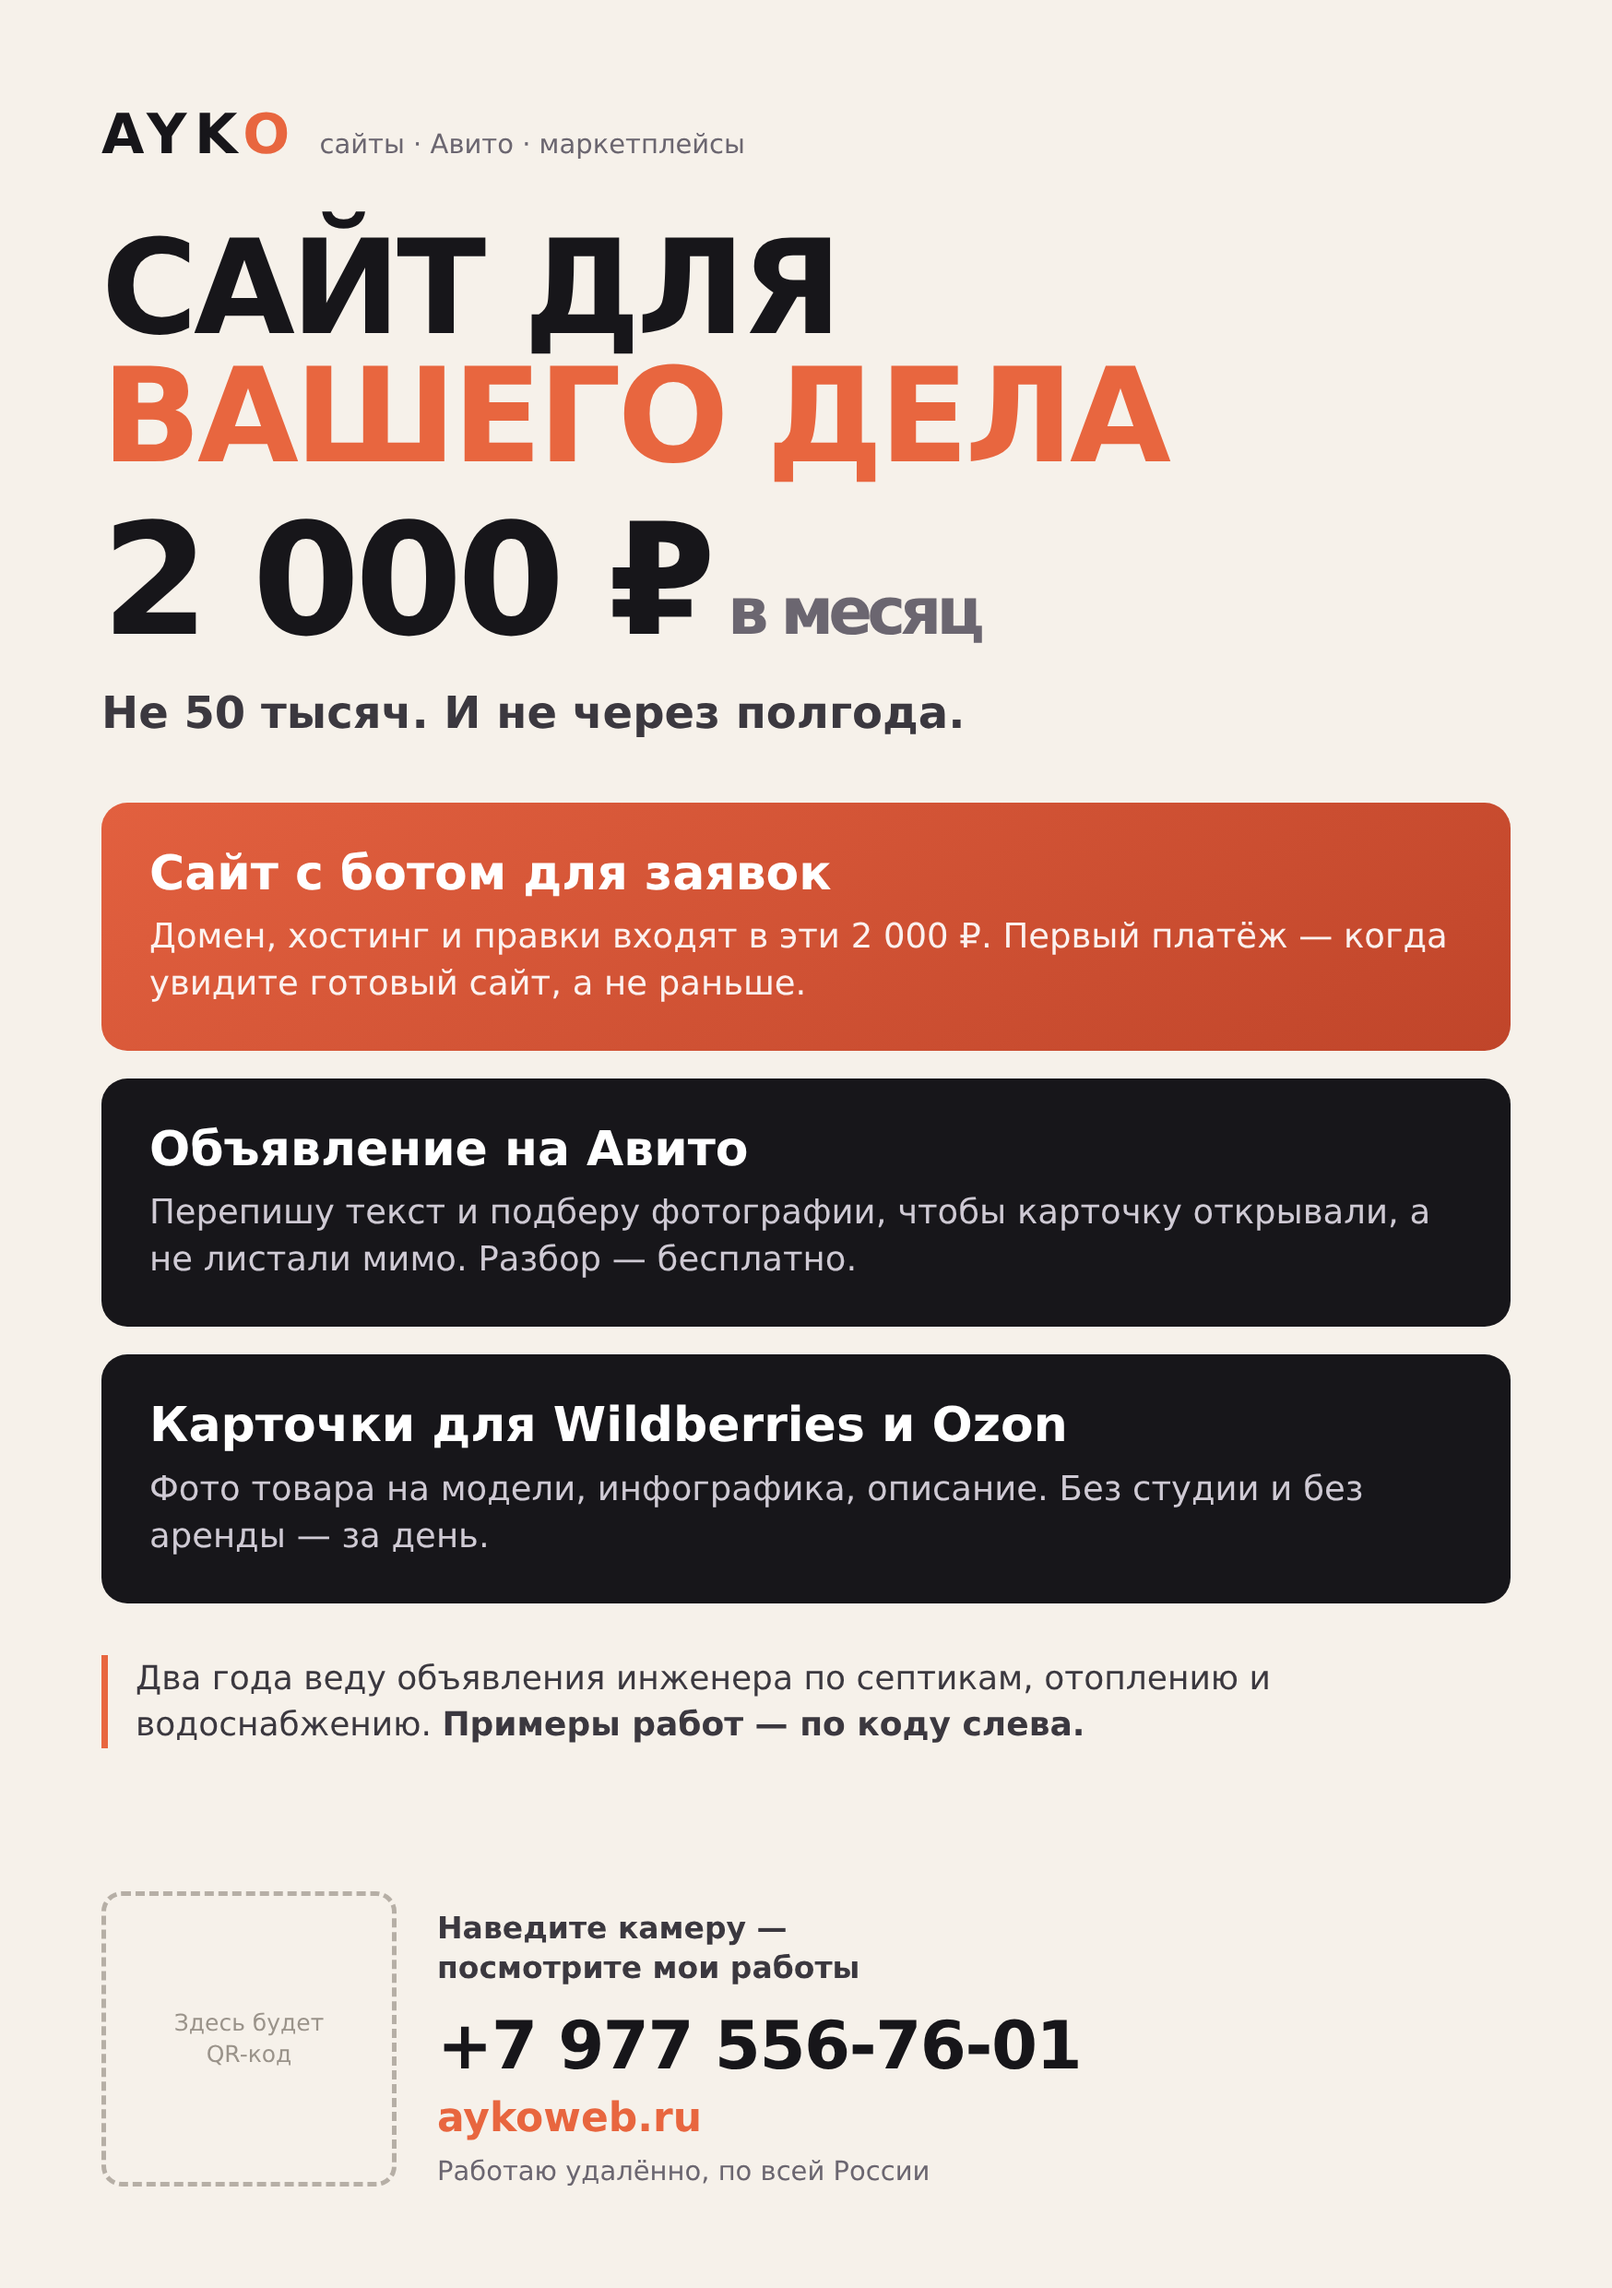
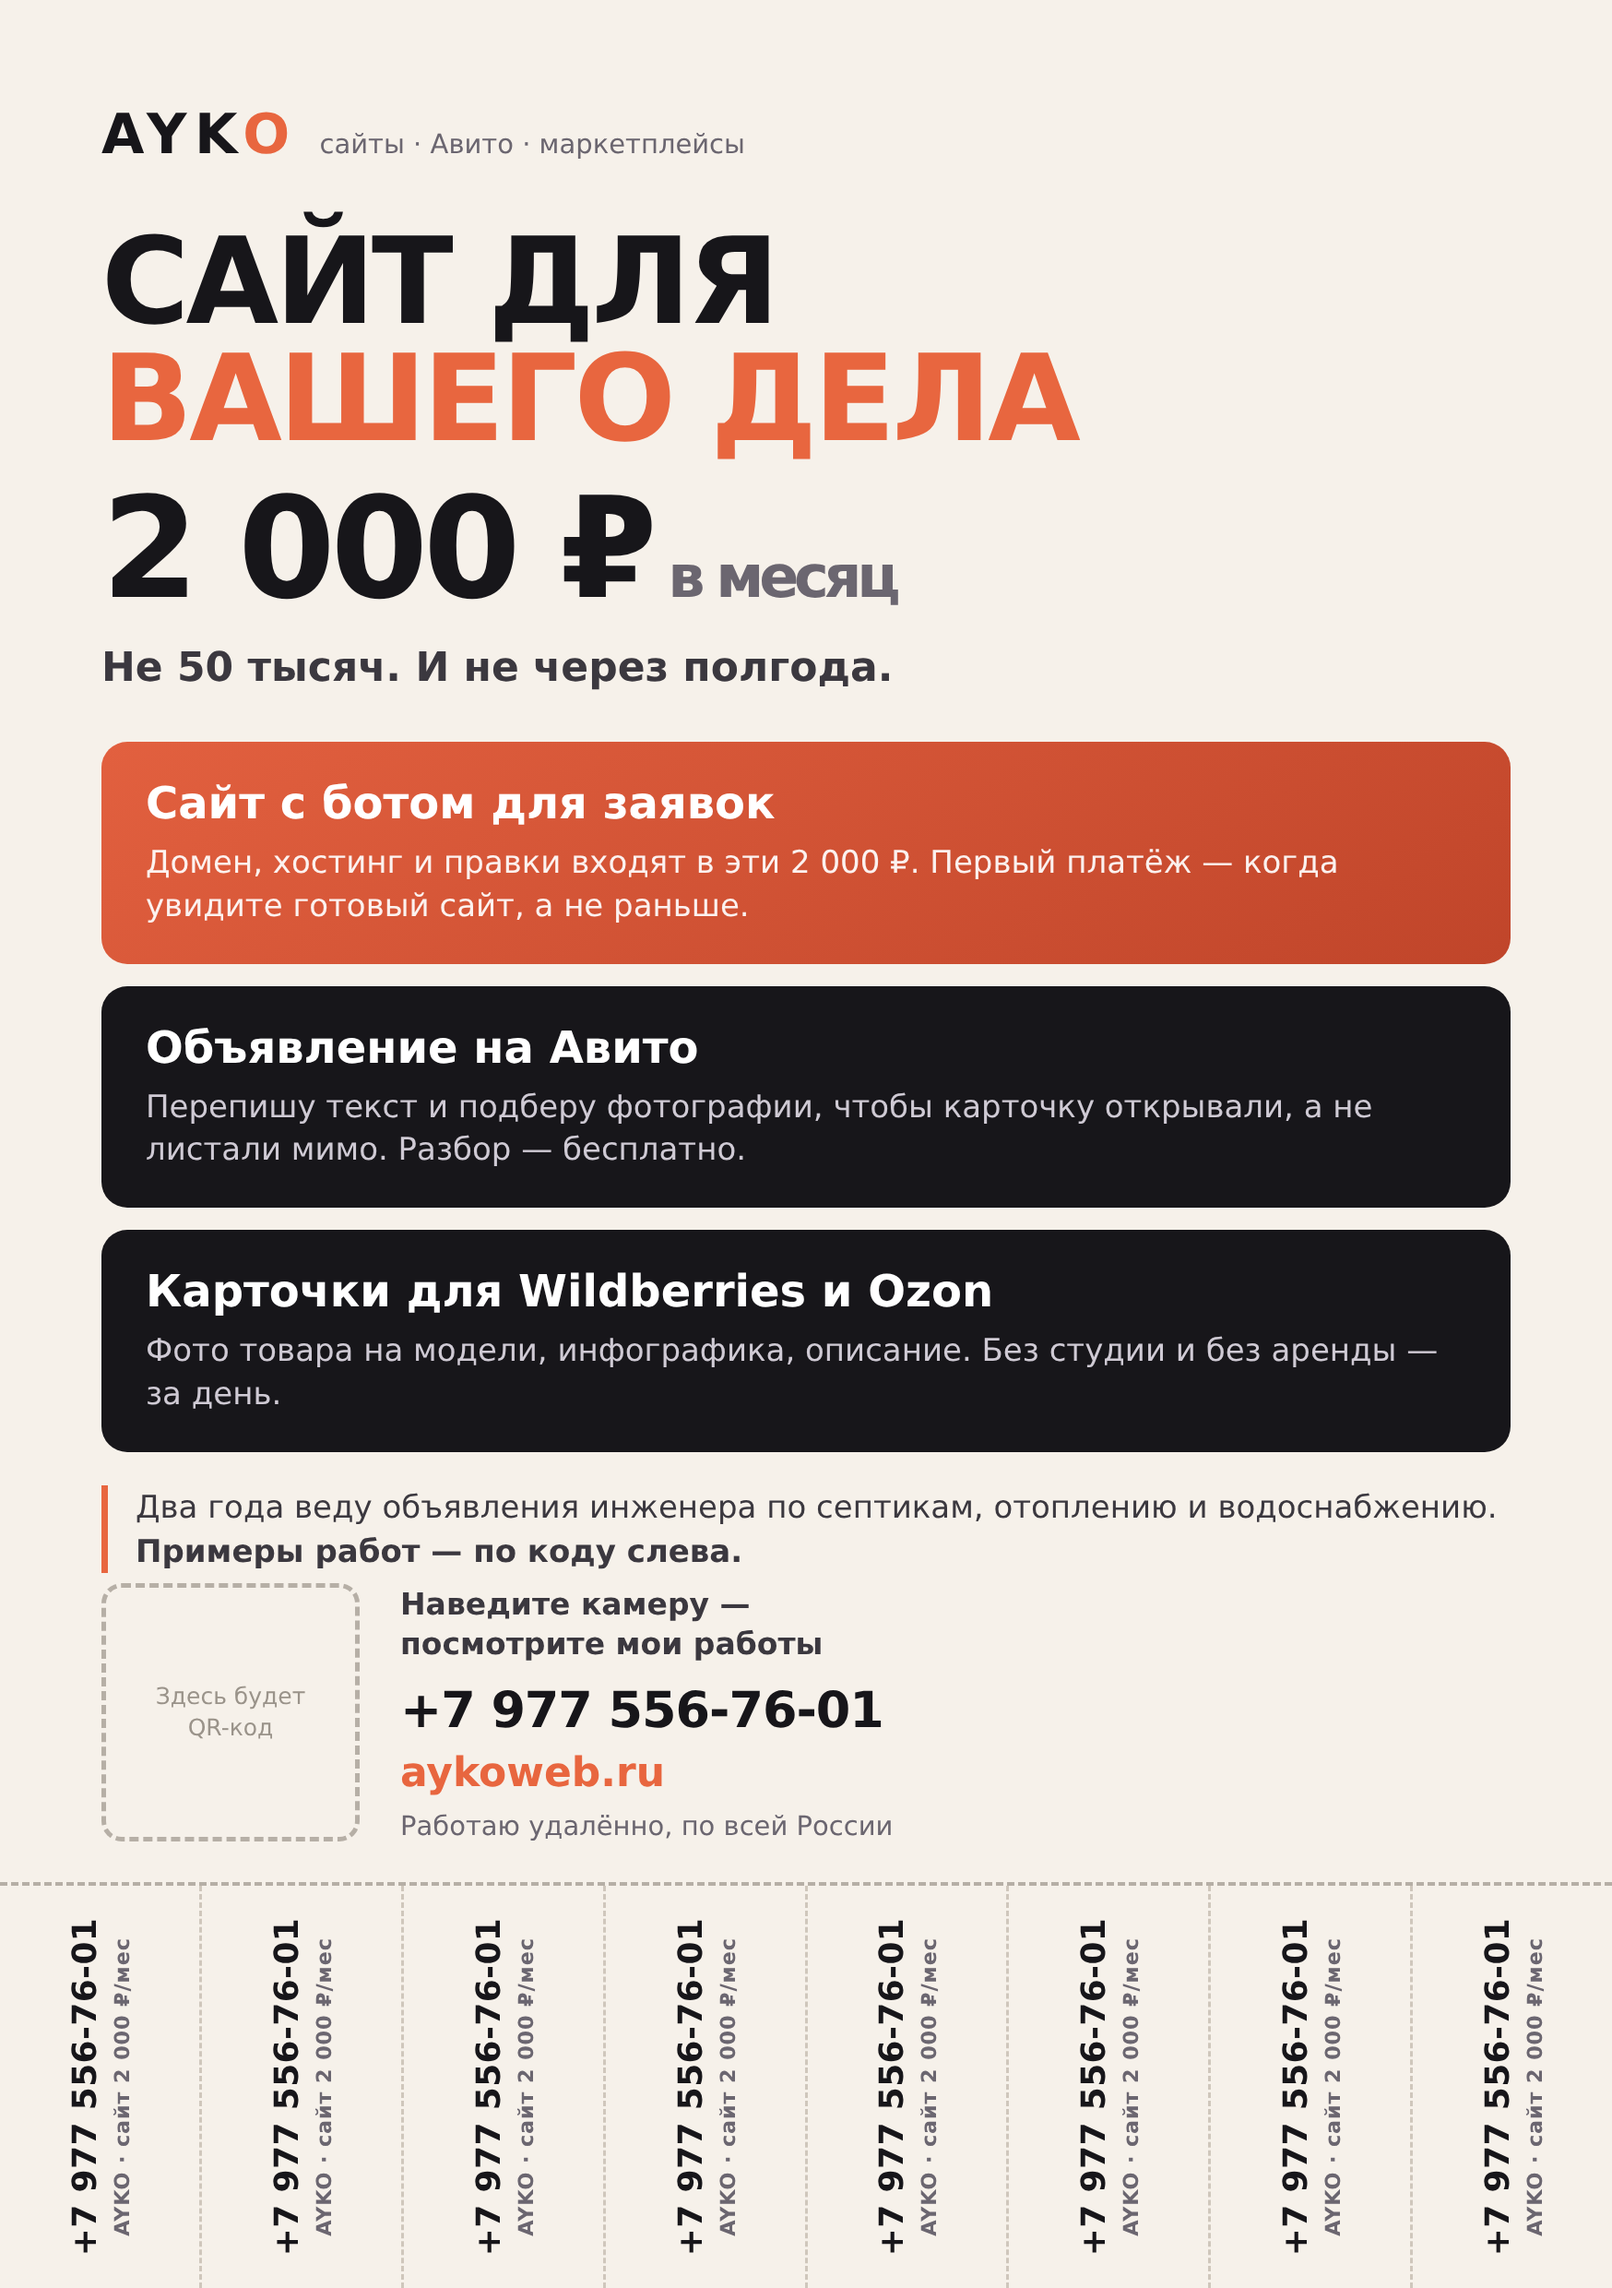
Листовка: восемь отрывных полосок с телефоном
В подъезде полоски работают лучше кода: телефон из кармана доставать
не надо, достаточно оторвать бумажку. Лента идёт до краёв листа, по
полоске примерно 1,8 см.

Три вещи, на которых проверка споткнулась и которые пришлось чинить
в ней, а не в макете: лента намеренно выходит за поля, у повёрнутого
на 90 градусов элемента ширина и высота в прямоугольнике меняются
местами, и флекс сжимал ленту с 440 до 269 пикселей.

Claude-Session: https://claude.ai/code/session_01Mz94299eM4Py8ny9J3Vrt3

diff --git a/dnevnik/avito/listovka.js b/dnevnik/avito/listovka.js
@@ -8,6 +8,8 @@ const { chromium } = require('/opt/node22/lib/node_modules/playwright');
 const path = require('path');
 
 const W = 1748, H = 2480, PAD = 110;
+const LENTA = 440;        // высота ленты с отрывными полосками
+const POLOS = 8;          // сколько полосок — по ширине это около 1,8 см на каждую
 
 const BLOKI = [
   { t: 'Сайт с ботом для заявок',
@@ -21,34 +23,43 @@ const BLOKI = [
 const html = `<!DOCTYPE html><html lang="ru"><head><meta charset="utf-8"><style>
 *{margin:0;padding:0;box-sizing:border-box}
 body{width:${W}px;height:${H}px;overflow:hidden;background:#f6f1ea;color:#17161a;
-  font-family:'DejaVu Sans','Liberation Sans',sans-serif;padding:${PAD}px;
+  font-family:'DejaVu Sans','Liberation Sans',sans-serif;padding:${PAD}px ${PAD}px 0;
   display:flex;flex-direction:column}
 .shapka{display:flex;align-items:baseline;gap:24px}
 .mark{font-size:60px;font-weight:700;letter-spacing:.14em}
 .mark i{font-style:normal;color:#e8663f}
 .tag{font-size:29px;color:#6b6670}
-.big{font-size:142px;font-weight:700;line-height:.98;letter-spacing:-.03em;text-transform:uppercase}
+.big{font-size:130px;font-weight:700;line-height:.98;letter-spacing:-.03em;text-transform:uppercase}
 .big em{font-style:normal;color:#e8663f;display:block}
-.cena{margin-top:30px;font-size:168px;font-weight:700;line-height:.95;letter-spacing:-.035em;
+.cena{margin-top:26px;font-size:152px;font-weight:700;line-height:.95;letter-spacing:-.035em;
   white-space:nowrap}
 .cena span{font-size:.42em;font-weight:600;color:#6b6670}
-.pod{margin-top:34px;font-size:48px;font-weight:600;color:#3b383f}
-.blocks{margin-top:70px;display:grid;gap:30px}
-.b{background:#17161a;color:#fff;border-radius:28px;padding:48px 52px}
-.b h3{font-size:52px;font-weight:700;line-height:1.1;margin-bottom:14px}
-.b p{font-size:37px;line-height:1.38;color:#cfcad4}
+.pod{margin-top:30px;font-size:44px;font-weight:600;color:#3b383f}
+.blocks{margin-top:56px;display:grid;gap:24px}
+.b{background:#17161a;color:#fff;border-radius:28px;padding:40px 48px}
+.b h3{font-size:48px;font-weight:700;line-height:1.1;margin-bottom:14px}
+.b p{font-size:34px;line-height:1.38;color:#cfcad4}
 .b:first-child{background:linear-gradient(150deg,#e2603f 0%,#c0452a 100%)}
 .b:first-child p{color:rgba(255,255,255,.92)}
-.dover{margin-top:56px;font-size:36px;line-height:1.4;color:#3b383f;
+.dover{margin-top:36px;font-size:34px;line-height:1.4;color:#3b383f;
   border-left:7px solid #e8663f;padding-left:30px}
 .dover b{font-weight:700}
+.rez{flex:none;margin:44px -${PAD}px 0;border-top:4px dashed #b6afa6;
+  display:flex;height:${LENTA}px}
+.pol{position:relative;flex:1;border-right:3px dashed #cfc7bc}
+.pol:last-child{border-right:none}
+.pol span{position:absolute;left:50%;top:50%;white-space:nowrap;
+  transform:translate(-50%,-50%) rotate(-90deg);
+  font-size:36px;font-weight:700;letter-spacing:.01em}
+.pol span i{font-style:normal;display:block;font-size:.62em;font-weight:600;
+  color:#6b6670;letter-spacing:.04em;text-align:center;margin-top:7px}
 .low{margin-top:auto;display:flex;gap:44px;align-items:flex-end}
-.qr{width:320px;height:320px;flex:none;border:5px dashed #b6afa6;border-radius:22px;
+.qr{width:280px;height:280px;flex:none;border:5px dashed #b6afa6;border-radius:22px;
   display:flex;align-items:center;justify-content:center;text-align:center;
   font-size:25px;color:#9a938a;line-height:1.35;padding:18px}
 .ctc{flex:1;min-width:0}
 .zov{font-size:33px;font-weight:600;color:#3b383f;line-height:1.3}
-.tel{margin-top:20px;font-size:72px;font-weight:700;letter-spacing:-.02em;white-space:nowrap}
+.tel{margin-top:18px;font-size:54px;font-weight:700;letter-spacing:-.02em;white-space:nowrap}
 .dom{margin-top:10px;font-size:44px;font-weight:600;color:#e8663f}
 .geo{margin-top:16px;font-size:29px;color:#6b6670}
 </style></head><body>
@@ -69,6 +80,8 @@ body{width:${W}px;height:${H}px;overflow:hidden;background:#f6f1ea;color:#17161a
     <div class="geo">Работаю удалённо, по всей России</div>
   </div>
 </div>
+<div class="rez">${Array.from({length: POLOS}, () =>
+  '<div class="pol"><span>+7 977 556-76-01<i>AYKO · сайт 2 000 ₽/мес</i></span></div>').join('')}</div>
 </body></html>`;
 
 (async () => {
@@ -81,6 +94,8 @@ body{width:${W}px;height:${H}px;overflow:hidden;background:#f6f1ea;color:#17161a
     const err = [];
     const kus = e => (e.textContent || '').trim().slice(0, 26);
     document.querySelectorAll('body *').forEach(e => {
+      // лента с полосками идёт до краёв листа нарочно, поля ей не писаны
+      if (e.closest('.rez')) return;
       const r = e.getBoundingClientRect();
       if (!r.width || !r.height) return;
       if (r.right > W - PAD + 2 || r.left < PAD - 2) err.push(`«${kus(e)}» вылезает вбок`);
@@ -100,7 +115,17 @@ body{width:${W}px;height:${H}px;overflow:hidden;background:#f6f1ea;color:#17161a
     // при кегле 142 и межстрочном .95 это около 135 пикселей.
     const c = document.querySelector('.cena');
     if (c.getBoundingClientRect().height > 240) err.push('цена разъехалась на две строки');
-    if (document.querySelector('.qr').getBoundingClientRect().width < 300) err.push('место под QR сжалось');
+    if (document.querySelector('.qr').getBoundingClientRect().width < 260) err.push('место под QR сжалось');
+    const rez = document.querySelector('.rez').getBoundingClientRect();
+    if (Math.round(rez.bottom) > H + 1) err.push(`лента не влезла: низ на ${Math.round(rez.bottom)} при листе ${H}`);
+    if (Math.round(rez.left) > 1 || Math.round(rez.right) < W - 1) err.push('лента не доходит до краёв листа');
+    document.querySelectorAll('.pol').forEach((e, i) => {
+      const sp = e.querySelector('span').getBoundingClientRect();
+      const po = e.getBoundingClientRect();
+      // после поворота ширина текста ложится по высоте полоски
+      if (sp.height > po.height - 24) err.push(`текст полоски ${i + 1} длиннее полоски: ${Math.round(sp.height)} при ${Math.round(po.height)}`);
+      if (sp.width > po.width - 14) err.push(`текст полоски ${i + 1} шире полоски`);
+    });
     return [...new Set(err)];
   }, { W, H, PAD });
 
